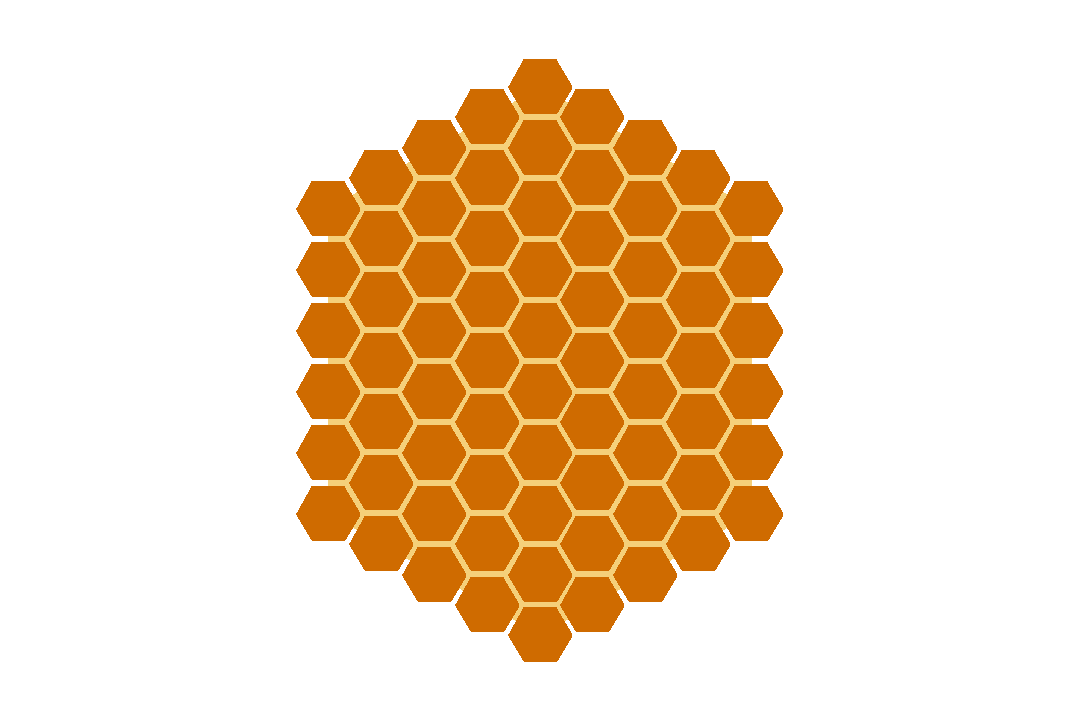
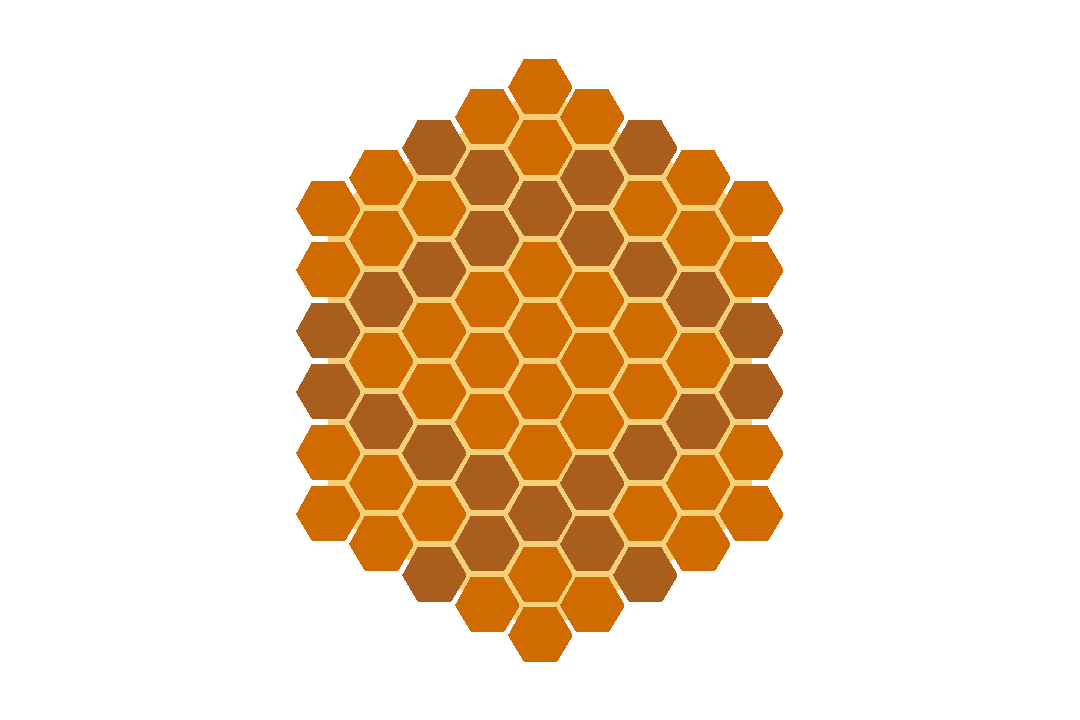
Added custom class and attribut for insects

Changed region(s): [[0.275, 0.1528, 0.7333, 0.8556]]

diff --git a/assets/insects.py b/assets/insects.py
@@ -31,6 +31,15 @@ class Insect:
 
     pos = property(_get_position, _set_position)
 
+    def goto(self, new_pos):
+        self.position = new_pos
+
+    def kill(self, insect_killed):
+        self.position = insect_killed.pos
+        insect_killed.killed()
+
+    def killed(self):
+        del self
 
 class Bug(Insect):
     """
@@ -254,5 +263,116 @@ class Ant(Insect):
 
         # eat
         directions_eat = directions_way
+
+        return directions_way, directions_eat, False
+
+
+class Custom(Insect):
+    """
+    this is a bonus insect you can change parameters
+    """
+    def __init__(self, pos, color, path):
+        Insect.__init__(self, pos, color, path)
+        self.name = "custom"
+        self.full_name = self.name + "_" + self.color
+        self.pict = pygame.image.load(self.path + self.full_name + ".png")
+
+    def calc_directions(self):
+        # (ways, eat) both are directions list composed by direction
+
+        if self.color == "white":
+            # ways that mean the insect can only go if there is nobody on these tile
+            directions_way = []
+
+            # one of the direction the insect can go
+            # each direction is stopped by the first opponent they see
+            direction = []
+            for i in range(1, 2):  # -> range in which the insect can go
+                direction.append((self.a + i, self.b + i))
+            # add it to the other directions
+            directions_way.append(direction)
+
+            # other direction this insect can go
+            direction = []
+            for i in range(1, 3):
+                direction.append((self.a + i, self.b))
+            # add it to the other directions
+            directions_way.append(direction)
+
+            # other direction this insect can go
+            direction = []
+            for i in range(1, 3):
+                direction.append((self.a, self.b + i))
+            # add it to the other directions
+            directions_way.append(direction)
+
+            # eat that mean the insect can only go if there is an opponent on these tile
+            directions_eat = []
+
+            direction = []
+            for i in range(1, 2):  # -> range in which the insect can eat
+                direction.append((self.a - i, self.b - i))
+            # add it to the other directions
+            directions_eat.append(direction)
+
+            direction = []
+            for i in range(1, 3):  # -> range in which the insect can eat
+                direction.append((self.a - i, self.b))
+            # add it to the other directions
+            directions_eat.append(direction)
+
+            direction = []
+            for i in range(1, 3):  # -> range in which the insect can eat
+                direction.append((self.a, self.b - i))
+            # add it to the other directions
+            directions_eat.append(direction)
+
+        else:  # black
+
+            # ways that mean the insect can only go if there is nobody on these tile
+            directions_way = []
+
+            # one of the direction the insect can go
+            # each direction is stopped by the first opponent they see
+            direction = []
+            for i in range(1, 2):  # -> range in which the insect can go
+                direction.append((self.a - i, self.b - i))
+            # add it to the other directions
+            directions_way.append(direction)
+
+            # other direction this insect can go
+            direction = []
+            for i in range(1, 3):
+                direction.append((self.a - i, self.b))
+            # add it to the other directions
+            directions_way.append(direction)
+
+            # other direction this insect can go
+            direction = []
+            for i in range(1, 3):
+                direction.append((self.a, self.b - i))
+            # add it to the other directions
+            directions_way.append(direction)
+
+            # eat that mean the insect can only go if there is an opponent on these tile
+            directions_eat = []
+
+            direction = []
+            for i in range(1, 2):  # -> range in which the insect can eat
+                direction.append((self.a + i, self.b + i))
+            # add it to the other directions
+            directions_eat.append(direction)
+
+            direction = []
+            for i in range(1, 3):  # -> range in which the insect can eat
+                direction.append((self.a + i, self.b))
+            # add it to the other directions
+            directions_eat.append(direction)
+
+            direction = []
+            for i in range(1, 3):  # -> range in which the insect can eat
+                direction.append((self.a, self.b + i))
+            # add it to the other directions
+            directions_eat.append(direction)
 
         return directions_way, directions_eat, False

diff --git a/main.py b/main.py
@@ -48,19 +48,20 @@ def main():
                      (Beetle, (1, 0), "white"), (Beetle, (0, 1), "white"),\
                      (Bee, (1, 1), "white"), (Bee, (2, 2), "white"),\
                      (Ant, (0, 0), "white"),\
-                     (Bug, (6, 9), "black"), (Bug, (6, 8), "black"), (Bug, (6, 7), "black"), \
+                     (Custom, (5, 5), "white"),\
+                     (Bug, (6, 9), "black"), (Bug, (6, 8), "black"), (Bug, (6, 7), "black"),\
                      (Bug, (9, 6), "black"), (Bug, (8, 6), "black"), (Bug, (7, 6), "black"), (Bug, (6, 6), "black"),\
                      (Locust, (7, 8), "black"), (Locust, (8, 7), "black"),\
                      (Spider, (7, 9), "black"), (Spider, (9, 7), "black"),\
-                     (Beetle, (9, 8), "black"), (Beetle, (8, 9), "black"), \
-                     (Bee, (8, 8), "black"), (Bee, (7, 7), "black"), \
-                     (Ant, (9, 9), "black"), \
+                     (Beetle, (9, 8), "black"), (Beetle, (8, 9), "black"),\
+                     (Bee, (8, 8), "black"), (Bee, (7, 7), "black"),\
+                     (Ant, (9, 9), "black"),\
 
     # creating the board for the first time
     textures.save_board(board.create_board(
         textures.colors["COLOR_TILE_OUTLINE"],
         textures.dflt["tile_1"],
-        textures.dflt["tile_1"],
+        textures.dflt["tile_2"],
         textures.dflt["tile_mask"]))
 
     game = Game()

diff --git a/assets/game.py b/assets/game.py
@@ -1,7 +1,8 @@
 """
 Game class
 """
-
+import pygame
+import assets.consts as c
 
 class Game:
     """
@@ -27,6 +28,7 @@ class Game:
 
     def _set_state(self, state):
         self.state_string = state
+        self.update_name()
 
     # process
     def _get_process(self):
@@ -34,6 +36,7 @@ class Game:
 
     def _set_process(self, process):
         self.process_string = process
+        self.update_name()
 
     # allow to store the data and use it in main properly
     state = property(_get_state, _set_state)  # indicate which state the game is in
@@ -57,3 +60,18 @@ class Game:
             self.turn = "black"
         elif self.turn == "black":
             self.turn = "white"
+        self.update_name()
+
+    def update_name(self):
+        """
+        update the window name
+        """
+        bond = " - "
+        if self.state_string == "game":
+            pygame.display.set_caption(c.GAME_NAME + bond +
+                                       "In " + self.state_string + bond +
+                                       self.turn.capitalize() + bond +
+                                       self.process_string.capitalize())
+        else:
+            pygame.display.set_caption(c.GAME_NAME + bond +
+                                       self.state_string.capitalize())
